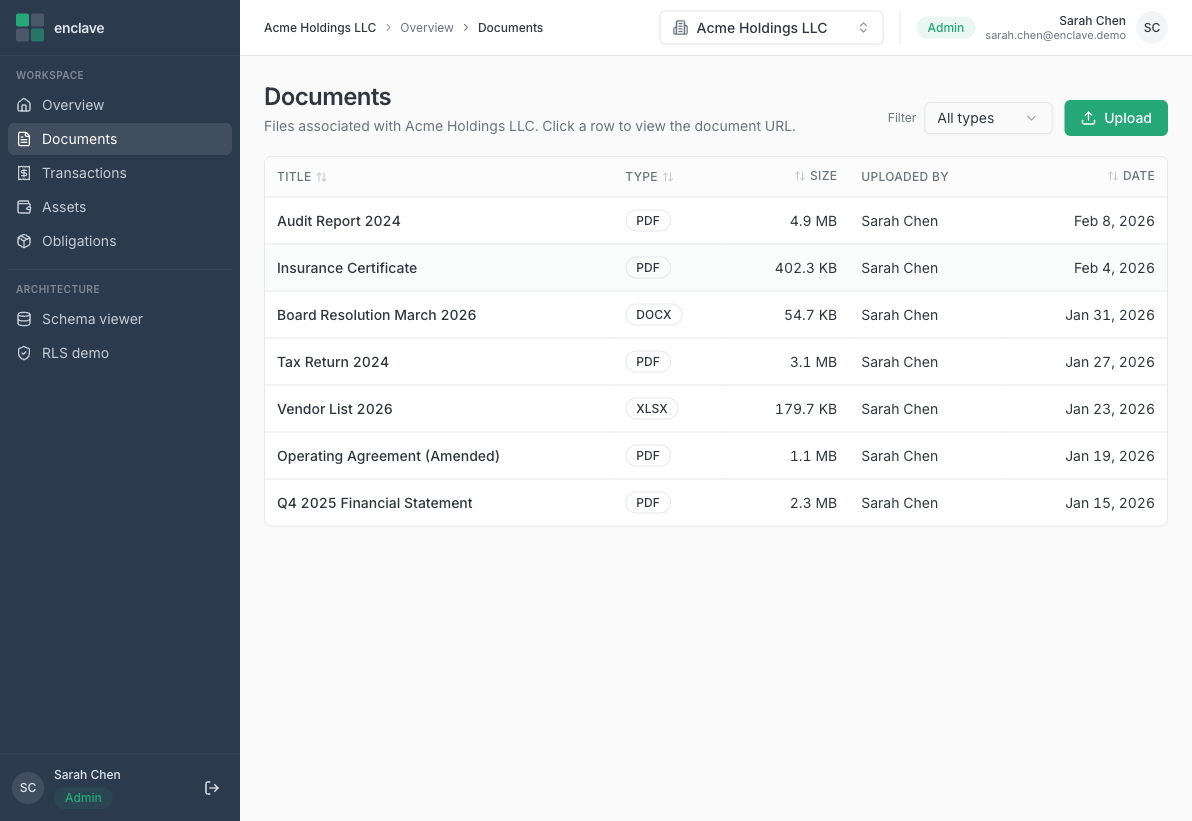
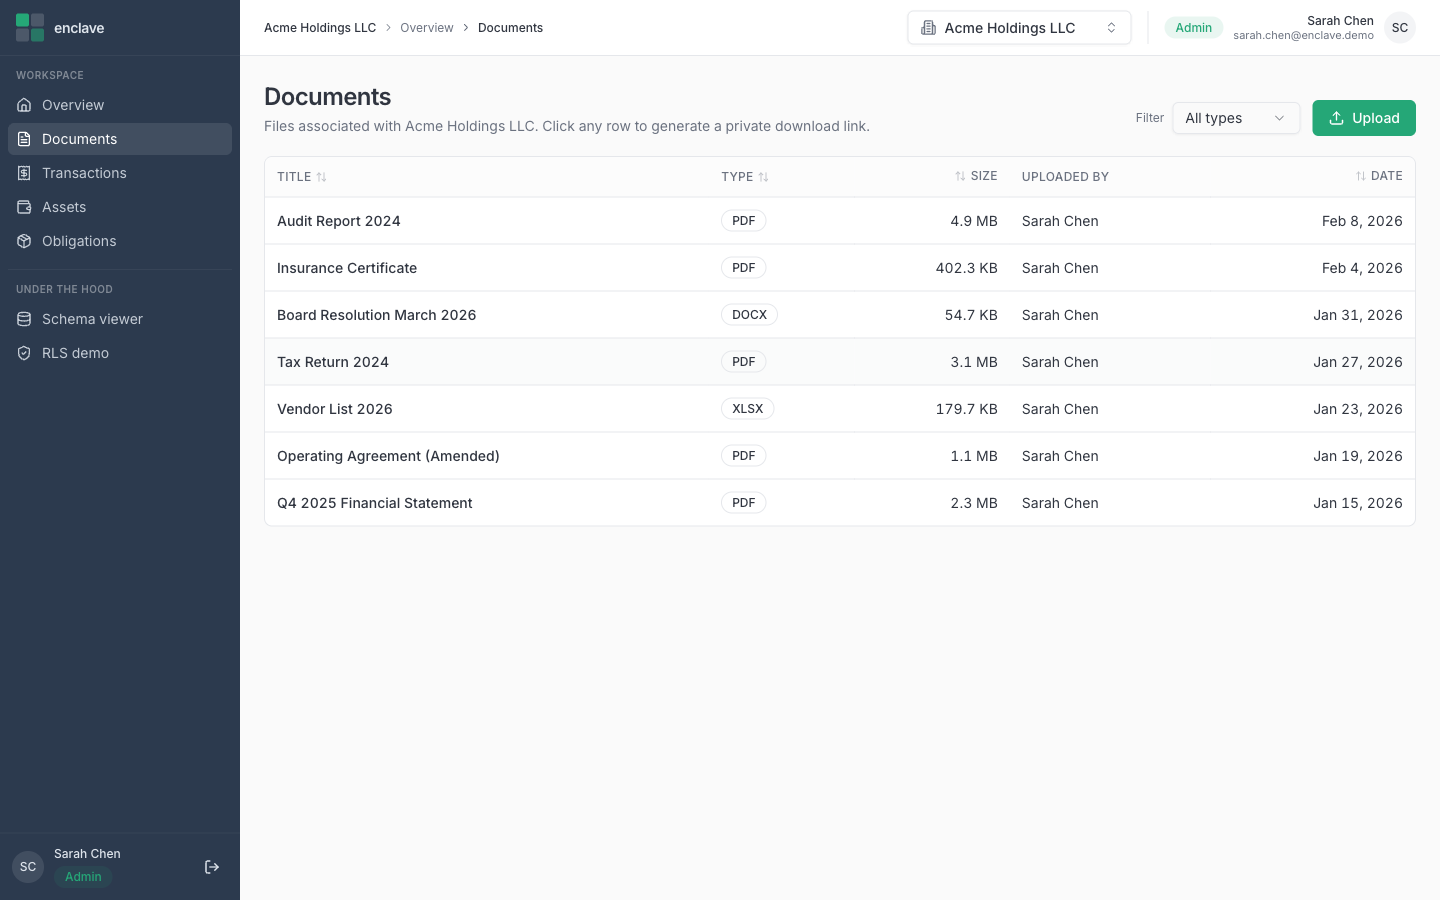
chore(assets): refresh screenshots and update URLs to tryenclave.vercel.app
All listing screenshots recaptured at 1440px using the clean alias.
Removed old demo/starter language visible in stale shots. Updated
README, DEPLOY.md, and LISTING-COPY.md from enclave-rls/enclave-portal
to tryenclave.vercel.app.

diff --git a/LISTING-COPY.md b/LISTING-COPY.md
@@ -20,7 +20,7 @@ Production-ready portal infrastructure with database-enforced multi-tenancy. Thr
 
 Most multi-tenant starters filter rows in the application layer. A developer writes a WHERE clause, wires it to the session, and hopes nobody forgets it. Enclave enforces isolation at the database level with Postgres Row-Level Security — if someone forgets a WHERE clause, Postgres still returns nothing.
 
-The differentiator is provable. There is a live demo at https://enclave-rls.vercel.app with three seeded accounts at different permission levels. Log in as Mike (viewer), hit the Documents page, and you see only his entity's data. Log in as Sarah (admin), and you see two entities. Visit /dashboard/rls-demo and click "Try a write as Mike" — the button calls the real /api/data endpoint, Postgres evaluates the WITH CHECK policy, and returns a genuine 42501 error. You are not clicking a mock. You are watching the database say no.
+The differentiator is provable. There is a live demo at https://tryenclave.vercel.app with three seeded accounts at different permission levels. Log in as Mike (viewer), hit the Documents page, and you see only his entity's data. Log in as Sarah (admin), and you see two entities. Visit /dashboard/rls-demo and click "Try a write as Mike" — the button calls the real /api/data endpoint, Postgres evaluates the WITH CHECK policy, and returns a genuine 42501 error. You are not clicking a mock. You are watching the database say no.
 
 **What's in the repo**
 
@@ -33,7 +33,7 @@ Next.js 14 (App Router) — Neon serverless Postgres — Auth.js v5 — Vercel B
 Stripe or any payment integration. Email notifications. Real-time subscriptions. A custom domain. The buyer needs a Neon account (free tier covers this), a Vercel account (free tier covers this), and a Vercel Blob store (free tier covers this). Estimated setup time following the included DEPLOY.md is 30 minutes.
 
 **Demo**
-https://enclave-rls.vercel.app
+https://tryenclave.vercel.app
 
 **GitHub**
 https://github.com/olukareem/enclave
@@ -79,7 +79,7 @@ Domain name (buyer registers their own). Cloud accounts (buyer uses their own Ne
 - TypeScript throughout
 
 **Live demo**
-https://enclave-rls.vercel.app
+https://tryenclave.vercel.app
 
 **Source**
 https://github.com/olukareem/enclave
@@ -97,7 +97,7 @@ Built this as a portfolio piece and it ended up being more complete than I expec
 
 It's a client portal where each user can belong to multiple "entities" (think client accounts, legal matters, fund trusts, whatever) with a role per relationship. The access control is enforced by Postgres Row-Level Security, not application-layer WHERE clauses. The difference matters: a forgotten WHERE clause leaks data; a forgotten RLS policy returns empty.
 
-There's a demo at https://enclave-rls.vercel.app. Log in as Mike (viewer) and you see one entity. Log in as Sarah (admin) and you see two. Visit the RLS demo page and click the write-violation button — it hits the real database and returns the actual Postgres 42501 error. Worth clicking just to see it.
+There's a demo at https://tryenclave.vercel.app. Log in as Mike (viewer) and you see one entity. Log in as Sarah (admin) and you see two. Visit the RLS demo page and click the write-violation button — it hits the real database and returns the actual Postgres 42501 error. Worth clicking just to see it.
 
 Stack: Next.js 14 App Router, Neon Postgres, Auth.js v5, Vercel Blob, shadcn/ui.
 
@@ -115,13 +115,13 @@ If you want to go direct — post this in relevant #jobs, #tools, or #marketplac
 
 Building a portal product and don't want to wire multi-tenancy from scratch? I'm selling a Next.js 14 starter with working Postgres RLS, Auth.js v5, and Vercel Blob document storage. The RLS isolation is actually provable — there's a demo page where you can watch Postgres reject unauthorized writes in real time.
 
-$2,500. Full source + deploy guide. https://enclave-rls.vercel.app | https://github.com/olukareem/enclave
+$2,500. Full source + deploy guide. https://tryenclave.vercel.app | https://github.com/olukareem/enclave
 
 ---
 
 ## Before pasting these anywhere
 
-- [x] Live demo URL is `https://enclave-rls.vercel.app` (filled in throughout)
+- [x] Live demo URL is `https://tryenclave.vercel.app` (filled in throughout)
 - [x] GitHub repo is `https://github.com/olukareem/enclave` (filled in throughout)
 - [ ] Replace `[SIDEPROJECTORS_URL]` in the Reddit post once the SideProjectors listing is live
 - [x] Smoke test passed against the live URL

diff --git a/DEPLOY.md b/DEPLOY.md
@@ -101,7 +101,7 @@ In the Vercel dashboard: **Add New → Project**, import the repo. Vercel auto-d
 
 - `DATABASE_URL`
 - `AUTH_SECRET`
-- `NEXTAUTH_URL` (set to your Vercel deployment URL, e.g. `https://enclave-portal.vercel.app`)
+- `NEXTAUTH_URL` (set to your Vercel deployment URL, e.g. `https://tryenclave.vercel.app`)
 - `BLOB_READ_WRITE_TOKEN`
 
 Click **Deploy**. After about 90 seconds you get a live URL.

diff --git a/README.md b/README.md
@@ -2,7 +2,7 @@
 
 Postgres RLS-enforced multi-tenancy. Built on Next.js 14, Neon, Auth.js, and Vercel Blob.
 
-Live demo: **[enclave-portal.vercel.app](https://enclave-portal.vercel.app)**
+Live demo: **[tryenclave.vercel.app](https://tryenclave.vercel.app)**
 
 ---
 
